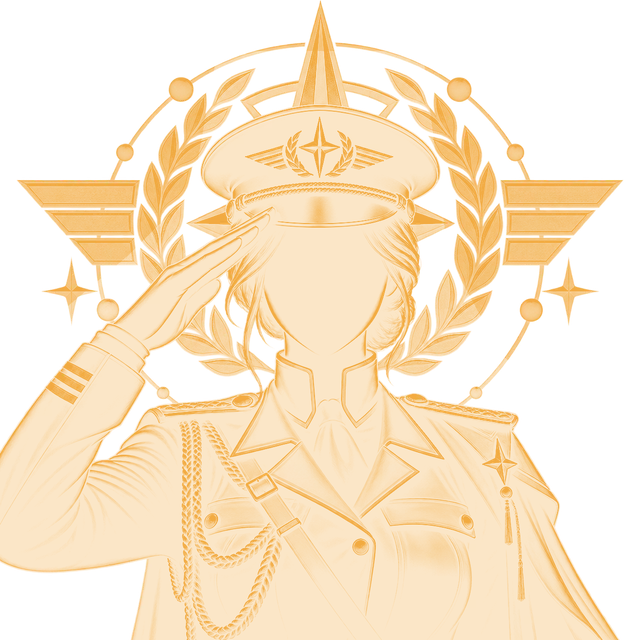
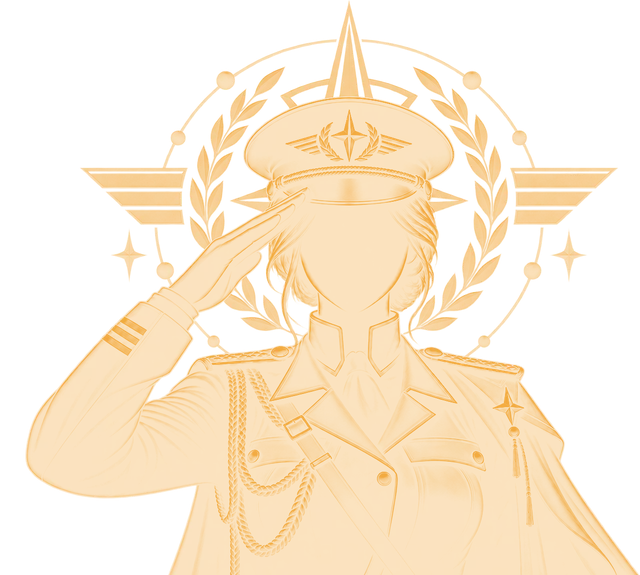
Update Website

diff --git a/index.html b/index.html
@@ -638,6 +638,12 @@ body.wasted-mode .wrap,body.wasted-mode .bar,body.wasted-mode #stars{filter:gray
 .start:hover .start-ring{animation:s-ring 2.8s ease-out infinite}
 @keyframes s-ring{0%{transform:scale(.9);opacity:.26}100%{transform:scale(1.22);opacity:0}}
 .sf{position:absolute;inset:0;color:var(--acc);overflow:hidden}
+.sf-slide{position:absolute;inset:0;opacity:0}
+.sf-slide.s-f{opacity:1}
+main section.in .sf-slide.s-f{animation:sl-a 22s ease-in-out infinite}
+main section.in .sf-slide.s-m{animation:sl-b 22s ease-in-out infinite}
+@keyframes sl-a{0%,40%{opacity:1}50%,90%{opacity:0}100%{opacity:1}}
+@keyframes sl-b{0%,40%{opacity:0}50%,90%{opacity:1}100%{opacity:0}}
 .sf-fig,.sf-glow{position:absolute;left:50%;bottom:0;transform:translateX(-50%);height:100%;width:auto;max-width:100%;object-fit:contain}
 .sf-fig{filter:drop-shadow(0 0 16px var(--acc-soft))}
 .sf-glow{opacity:0;filter:drop-shadow(0 0 12px var(--acc));transition:opacity .4s ease}
@@ -1878,17 +1884,20 @@ function musicUI(){
 }
 
 const START_IMG = {
-  crew:  { fig:"assets/starts/crew.webp",  glow:"assets/starts/crew-glow.webp" },
-  staff: { fig:"assets/starts/staff.webp", glow:"assets/starts/staff-glow.webp" },
-  guest: { fig:"assets/starts/guest.webp", glow:"assets/starts/guest-glow.webp" },
-  alien: { fig:"assets/starts/alien.webp", glow:"assets/starts/alien-glow.webp" },
+  crew:  { f:"assets/starts/crew.webp",  fg:"assets/starts/crew-glow.webp",  m:"assets/starts/crew-m.webp",  mg:"assets/starts/crew-m-glow.webp" },
+  staff: { f:"assets/starts/staff.webp", fg:"assets/starts/staff-glow.webp", m:"assets/starts/staff-m.webp", mg:"assets/starts/staff-m-glow.webp" },
+  guest: { f:"assets/starts/guest.webp", fg:"assets/starts/guest-glow.webp", m:"assets/starts/guest-m.webp", mg:"assets/starts/guest-m-glow.webp" },
+  alien: { f:"assets/starts/alien.webp", fg:"assets/starts/alien-glow.webp", m:"assets/starts/alien-m.webp", mg:"assets/starts/alien-m-glow.webp" },
 };
 function figure(kind, n){
   const im = START_IMG[kind] || {};
+  const slide = (cls, fig, glow) => `<div class="sf-slide ${cls}">
+      <img class="sf-fig" src="${fig}" alt="" onerror="this.remove()">
+      <img class="sf-glow" src="${glow}" alt="" aria-hidden="true" onerror="this.remove()">
+    </div>`;
   return `<div class="sf">
-    <img class="sf-fig" src="${im.fig || ""}" alt="" onerror="this.remove()">
-    <img class="sf-glow" src="${im.glow || ""}" alt="" aria-hidden="true" onerror="this.remove()">
-    <span class="sf-scan" aria-hidden="true"></span>
+    ${slide("s-f", im.f, im.fg)}
+    ${slide("s-m", im.m, im.mg)}
     <span class="sf-sweep" aria-hidden="true"></span>
     <span class="sf-frame" aria-hidden="true"></span>
     <span class="sf-tag" aria-hidden="true">REC ${String(n).padStart(2,"0")}</span>
